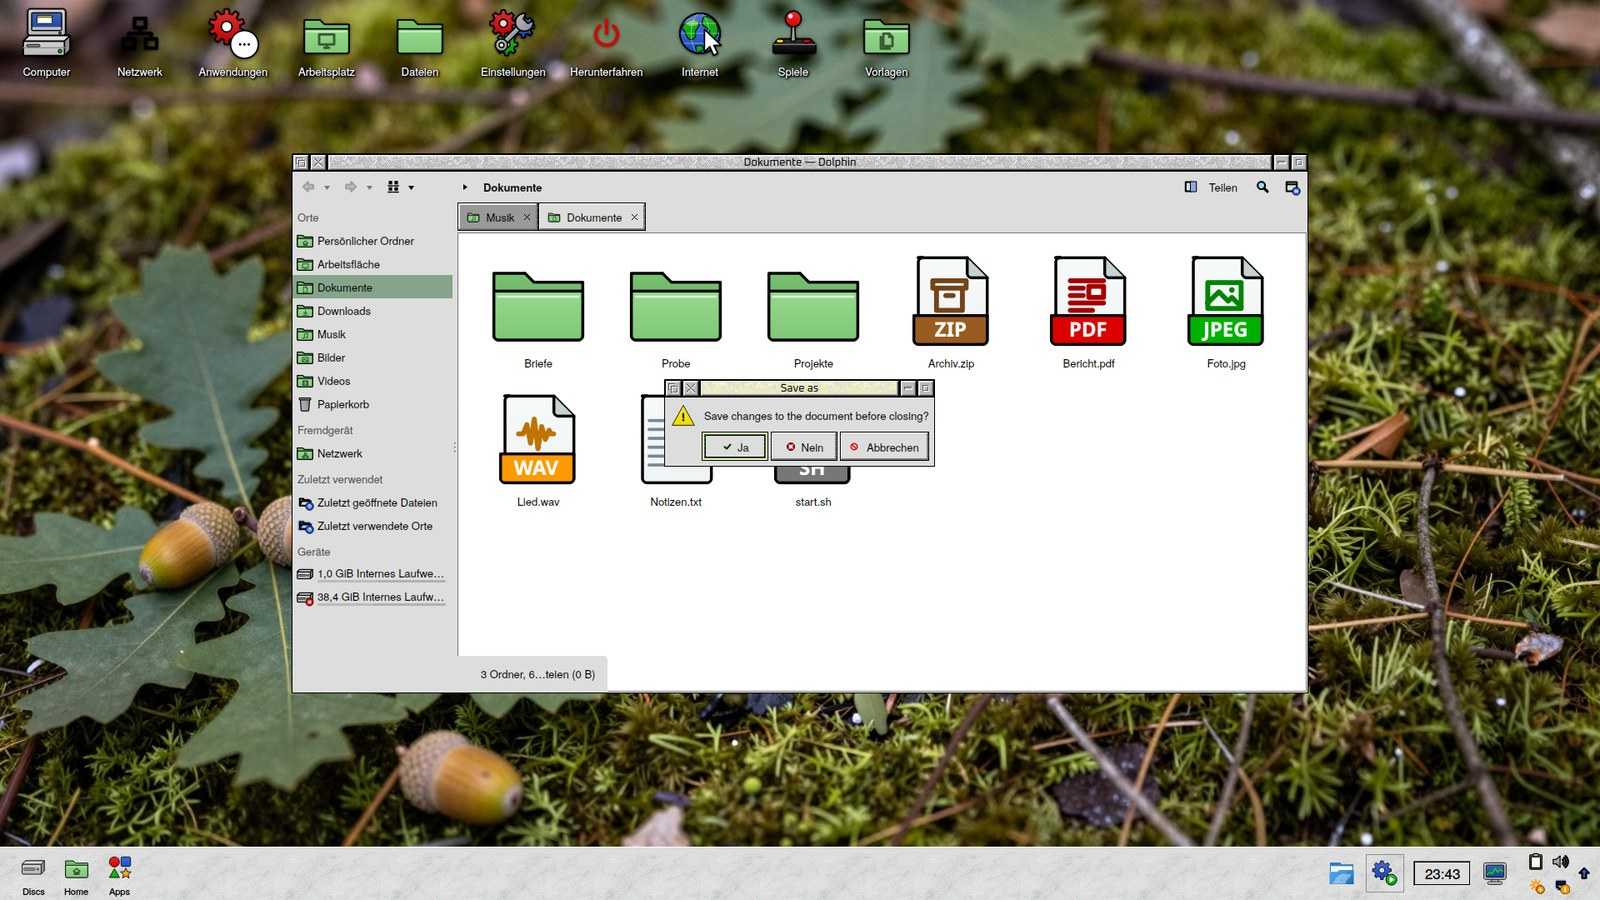
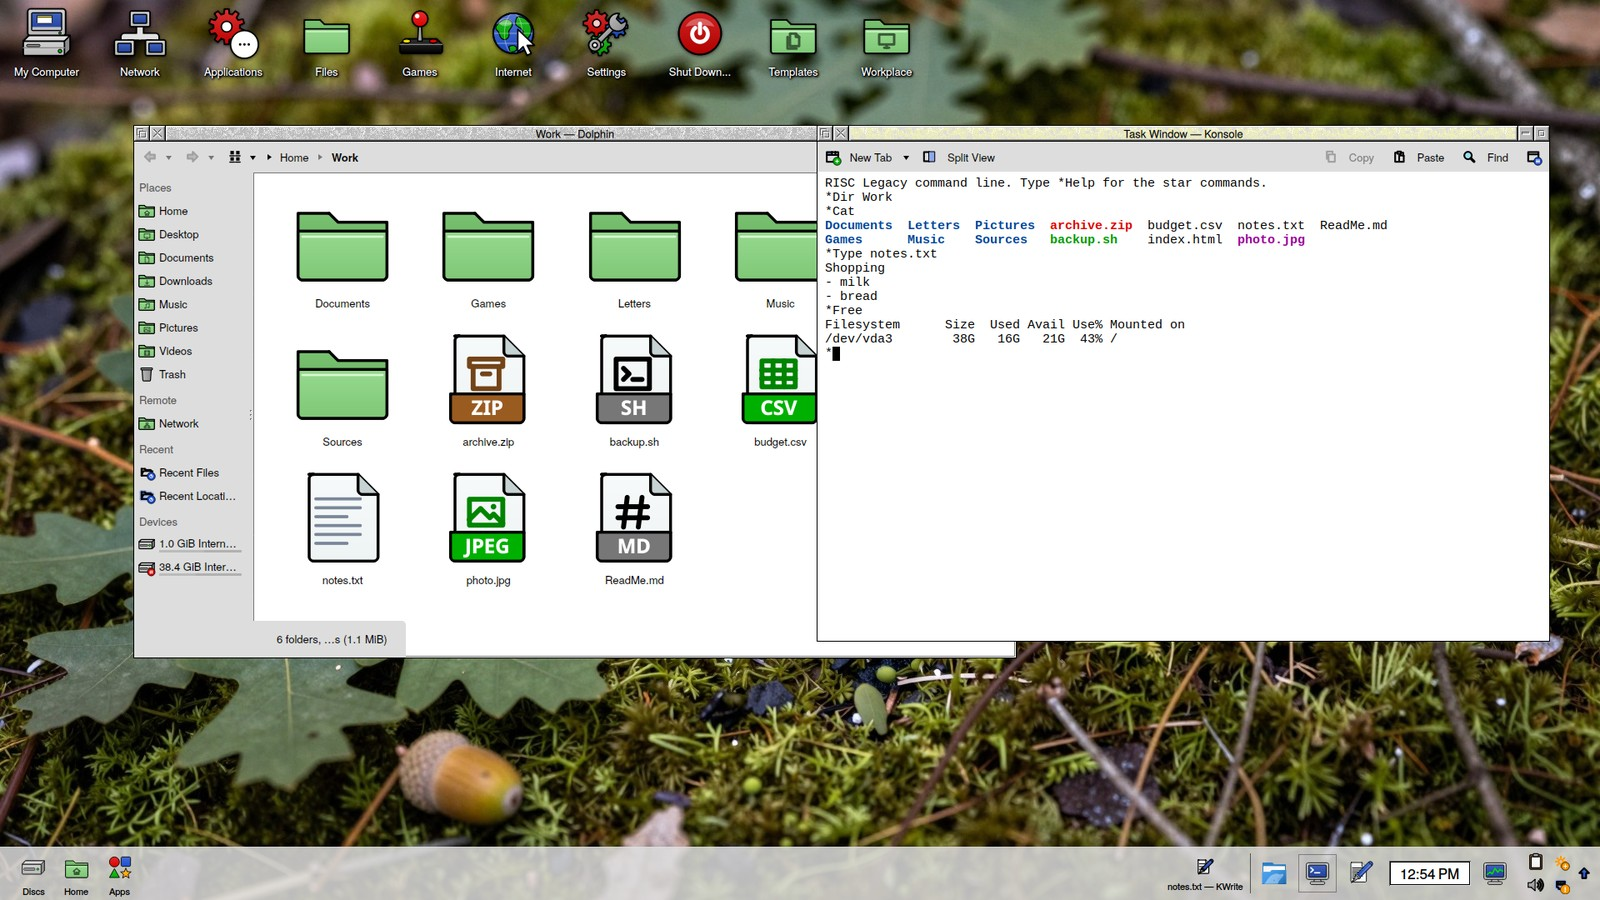
RISC Legacy: store screenshots (English session), previews, star commands without the star
- screenshots/store/: Filer and iconbar, the F12 command line, Task
  Window, iconbar menus, day/night pairs, all eight variants; Global Theme
  previews made from them.
- starrc: as at RISC OS's prompt the star may be left out (Cat, Dir, Ex,
  Help) where bash has no such command; as aliases, so Dir and Up change
  the directory.
- CLAUDE.md: how to get a lasting English session in the lab VMs.

diff --git a/riscos/STORE.md b/riscos/STORE.md
@@ -10,21 +10,24 @@ theme with install.sh beside it, all variants and wallpapers inside.
 Licence GPL-2.0-or-later (the RISC OS 4 window tools: Apache 2.0, RISC OS
 Open, with LICENSE and NOTICE in the archive).
 
-## Pictures (to make)
+## Pictures
 
-From the Fedora VM, English session, 1920×1080:
+`screenshots/store/`, taken in the Fedora VM in an English session at
+1920×1080 (26.10.2026):
 
-1. RISC Legacy (classic) with the iconbar, a Filer window and an iconised
-   window on the iconbar.
-2. **The command line (F12)** along the bottom: `*Help`, then `*Cat` and
-   `*Ex` in the home directory — shows what the star commands are.
-3. **A Task Window (Ctrl+F12)** beside a Filer window: `*Dir Documents`,
-   `*Cat`, and an ordinary `ls | head` to show that bash is underneath.
-4. The iconbar's menus: a program's menu (Menu on its icon) and the Apps
-   menu.
-5. Day and night: the same desktop at day and after the switch (2026 and
-   2026 Dark on Fenland; classic on Limestone and Graphite at night).
-6. The variants side by side (the previews in `previews/`).
+| File | Shows |
+|---|---|
+| `1-filer-iconbar.png` | classic: two Filer windows, iconised windows with their title on the iconbar |
+| `2-command-line-star-commands.png` | the command line (F12) along the bottom: `Dir`, `Help`, `Cat`, `Ex` |
+| `3-task-window.png` | a Task Window (Ctrl+F12) beside a Filer: star commands and an ordinary `ls` |
+| `4a-iconbar-program-menu.png` | Menu on a program's icon: its menu, titled with its name |
+| `4b-apps-menu.png` | the Apps menu, cascading into the programs |
+| `5a-2026-day.png`, `5b-2026-night.png` | 2026 by day and 2026 Dark at night, the same Fenland picture |
+| `5c-classic-day.png`, `5d-classic-night-graphite.png` | classic on Limestone by day, Graphite at night |
+| `variant-<key>.jpg` | the same scene in each of the eight variants |
+
+The previews in System Settings › Global Theme (`previews/`) are made from
+the variant pictures. Store order: 1, 2, 3, 4b, 5a/5b, then the variants.
 
 ## Description
 

diff --git a/CLAUDE.md b/CLAUDE.md
@@ -38,3 +38,27 @@ change to one theme must not alter the other:
 - `CDE/tests/verify.py` rebuilds the theme from a copy without its
   parent directory and compares byte for byte with `CDE/build/`. If that
   fails, the separation has been broken.
+
+## English session in the lab VMs (since 26.10.2026)
+
+Screenshots and tests run in an English session (the user's rule: English
+is the default). Plasma's own setting (`~/.config/plasma-localerc`,
+`[Formats] LANG`, `[Translations] LANGUAGE`) is not enough on its own:
+startplasma takes LANG from SDDM, SDDM from PID 1 (systemd), and PID 1
+reads `/etc/locale.conf` only at boot; the systemd user manager also keeps
+its old LANG as long as an SSH session holds it open, and hands it to the
+next Plasma session. So, in the guest, once:
+
+```bash
+sudo localectl set-locale LANG=en_US.UTF-8
+kwriteconfig6 --file plasma-localerc --group Formats --key LANG en_US.UTF-8
+kwriteconfig6 --file plasma-localerc --group Translations --key LANGUAGE en_US
+systemctl --user set-environment LANG=en_US.UTF-8 LANGUAGE=en_US
+sudo systemctl reboot          # restarting sddm is not enough
+# check: tr '\0' '\n' < /proc/$(pgrep -x plasmashell)/environ | grep LANG
+```
+
+The keyboard layout stays German. plasma-lab is English since 26.10.2026.
+Programs started over SSH miss the session's environment (kdedefaults,
+LANG) and look like Breeze or German: start them with plasmashell's
+environment (read `/proc/<plasmashell>/environ`).

diff --git a/riscos/README.md b/riscos/README.md
@@ -64,9 +64,10 @@ RISC Legacy brings both ways in:
 - **Ctrl+F12** — a **Task Window**, the command line as an ordinary
   window, black on white.
 
-Underneath is an ordinary bash: only words that start with `*` are star
-commands. `*Cat` lists the directory the RISC OS way, `cat` is still
-Unix's cat, and everything without a star works as always.
+Underneath is an ordinary bash: words that start with `*` are star
+commands. As at RISC OS's `*` prompt, the star can be left out where bash
+has no command of that name — `Cat`, `Dir`, `Ex`, `Help` —, while the
+lower-case `cat` and `dir` stay Unix's. Everything else works as always.
 
 | Star command | RISC OS | here |
 |---|---|---|
